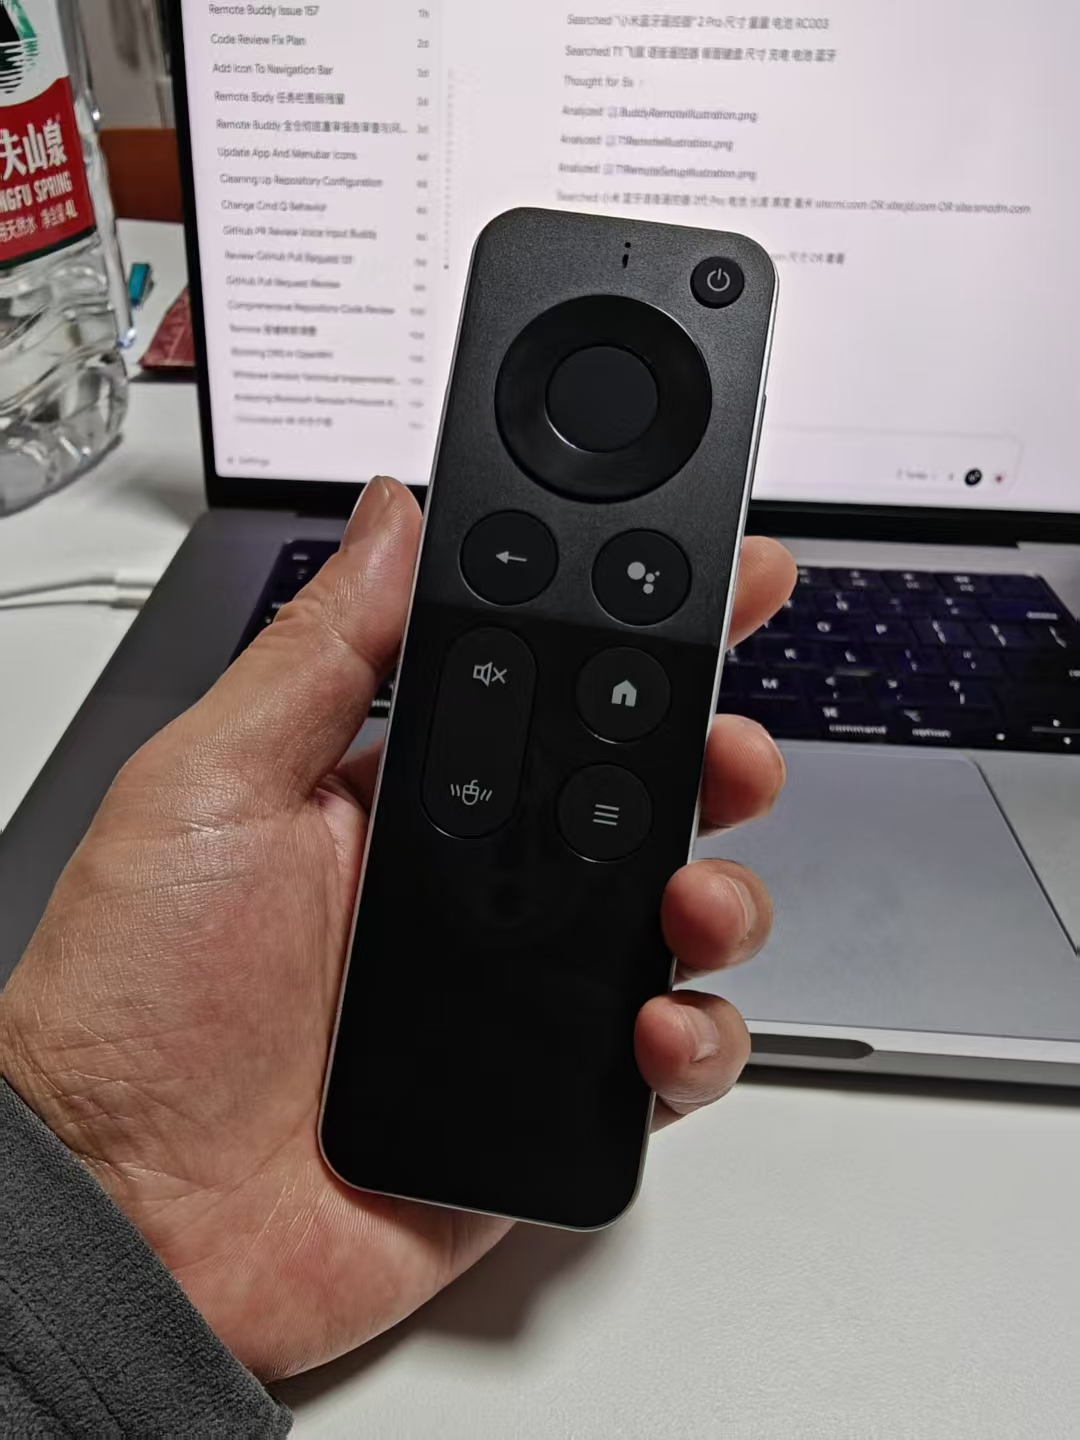
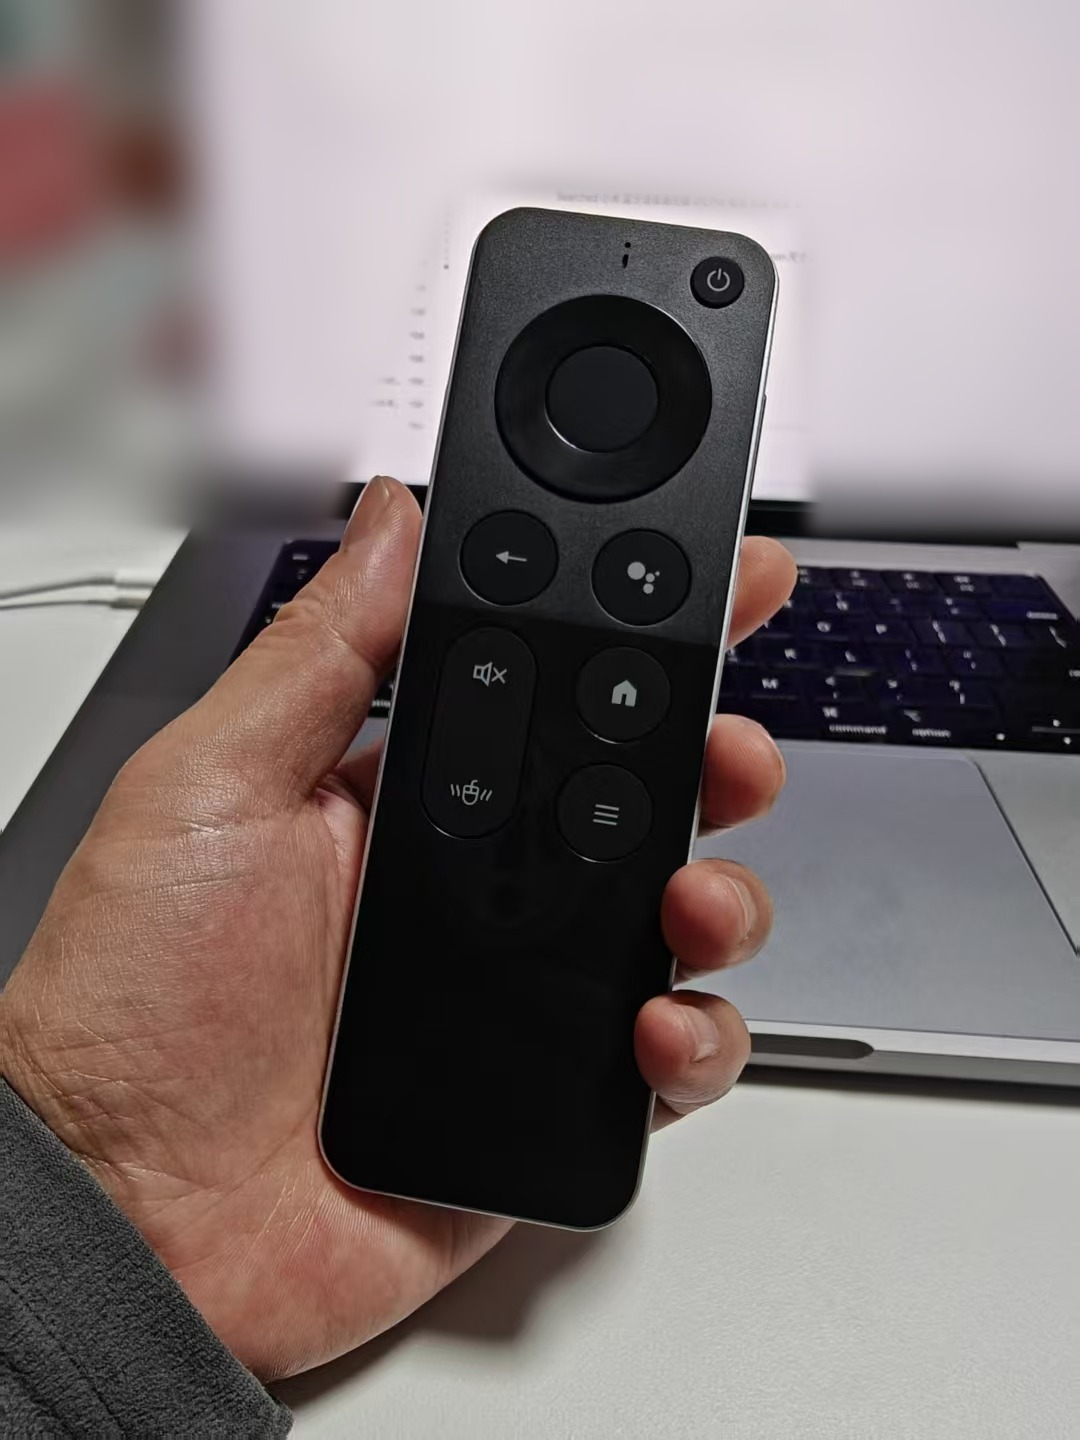
docs(t1-remote): update five-device docs, blur photo background, and verify illustrations

diff --git a/pages/index.en.html b/pages/index.en.html
@@ -85,7 +85,7 @@
   <div class="demo-links"><span>An overview of Remote Buddy’s features and setup.</span><a class="text-link" href="assets/video/Remote_Buddy_Demo_Natural_zh-CN.mp4" download>Download video ↓</a></div>
 </section>
 <section class="section wrap start" id="start"><div><p class="eyebrow">GET STARTED</p><h2 class="section-title">Install, then follow the setup guide.</h2><p>One installer includes the app and virtual microphone driver.</p><a class="text-link" href="https://github.com/zfdang/remote-buddy/blob/main/docs/interface.md">Setup and troubleshooting ↗</a></div><ol class="steps"><li><span>01</span><div><h3>Install and open</h3><p>Download the PKG from Releases and open Remote Buddy in Applications.</p></div></li><li><span>02</span><div><h3>Grant permissions</h3><p>Follow the guide for Bluetooth, Input Monitoring, and Accessibility permissions.</p></div></li><li><span>03</span><div><h3>Connect and configure</h3><p>Connect your remote, test its buttons, and check the driver. Then select Remote Buddy Mic in your input tool and follow the guide to set its voice shortcut.</p></div></li><li><span>04</span><div><h3>Try a sentence</h3><p>Pass the voice test in the guide, then click where you want to type. Hold the remote voice button to speak and release to finish. For tap-based tools, follow the guide to configure how voice input starts and stops.</p></div></li></ol></section>
-<section class="section compatibility" id="compatibility"><div class="wrap"><p class="eyebrow">COMPATIBILITY</p><h2 class="section-title">Check device and input tool compatibility.</h2><div class="compat-grid"><article><h3>REMOTES</h3><div class="tools hardware"><span>Xiaomi Bluetooth Remote 2 / 2 Pro</span><span>Chromecast Voice Remote (G9N9N)</span><span>Google TV Streamer Voice Remote (GY3LE)</span><span>Apple Siri Remote</span></div><p>Xiaomi 2 / 2 Pro are supported. G9N9N supports voice input; single-button mapping is unsupported. GY3LE and Siri Remote support is planned.</p><a class="text-link" href="https://github.com/zfdang/remote-buddy/blob/main/README.en.md#which-devices-are-supported">See support by model ↗</a></article><article><h3>INPUT TOOLS</h3><div class="tools"><span>WeType</span><span>Doubao</span><span>NetEase Bageshuo</span><span>Typeless</span><span>VoiceCursor</span><span>macOS Dictation</span><span>Other tools</span></div><p>Choose your tool, follow the guide to configure Remote Buddy Mic and the voice shortcut, then try a spoken sentence.</p><p class="muted">Your tool needs microphone selection and a configurable voice shortcut. Settings vary by version; use the guide’s voice test to check your setup.</p></article></div></div></section>
+<section class="section compatibility" id="compatibility"><div class="wrap"><p class="eyebrow">COMPATIBILITY</p><h2 class="section-title">Check device and input tool compatibility.</h2><div class="compat-grid"><article><h3>REMOTES</h3><div class="tools hardware"><span>Xiaomi Bluetooth Remote 2 / 2 Pro</span><span>T1 Air-Mouse &amp; Keyboard Voice Remote</span><span>Chromecast Voice Remote (G9N9N)</span><span>Google TV Streamer Voice Remote (GY3LE)</span><span>Apple Siri Remote</span></div><p>Xiaomi 2 / 2 Pro and T1 are supported. G9N9N supports voice input; single-button mapping is unsupported. GY3LE and Siri Remote support is planned.</p><a class="text-link" href="https://github.com/zfdang/remote-buddy/blob/main/README.en.md#which-devices-are-supported">See support by model ↗</a></article><article><h3>INPUT TOOLS</h3><div class="tools"><span>WeType</span><span>Doubao</span><span>NetEase Bageshuo</span><span>Typeless</span><span>VoiceCursor</span><span>macOS Dictation</span><span>Other tools</span></div><p>Choose your tool, follow the guide to configure Remote Buddy Mic and the voice shortcut, then try a spoken sentence.</p><p class="muted">Your tool needs microphone selection and a configurable voice shortcut. Settings vary by version; use the guide’s voice test to check your setup.</p></article></div></div></section>
 <section class="section wrap troubleshooting" id="troubleshooting" aria-labelledby="troubleshooting-title">
   <p class="eyebrow">TROUBLESHOOTING</p>
   <h2 class="section-title" id="troubleshooting-title">Voice works, but buttons do not?</h2>

diff --git a/pages/index.html b/pages/index.html
@@ -85,7 +85,7 @@
   <div class="demo-links"><span>了解遥控搭子的功能与使用流程。</span><a class="text-link" href="assets/video/Remote_Buddy_Demo_Natural_zh-CN.mp4" download>下载视频 ↓</a></div>
 </section>
 <section class="section wrap start" id="start"><div><p class="eyebrow">开始使用</p><h2 class="section-title">安装后，跟着向导开始。</h2><p>应用和虚拟麦克风驱动包含在同一个安装包中。</p><a class="text-link" href="https://github.com/zfdang/remote-buddy/blob/main/docs/interface.md">查看设置与常见问题 ↗</a></div><ol class="steps"><li><span>01</span><div><h3>安装并打开</h3><p>下载安装包（PKG）并完成安装，再从“应用程序”打开 Remote Buddy。</p></div></li><li><span>02</span><div><h3>授予系统权限</h3><p>按向导授权蓝牙、输入监控和辅助功能。</p></div></li><li><span>03</span><div><h3>连接与配置</h3><p>连接遥控器、测试按键并检查驱动。随后在输入工具中选择 Remote Buddy Mic 麦克风，按向导设置语音快捷键。</p></div></li><li><span>04</span><div><h3>试说一句话</h3><p>通过向导中的语音测试后，点击要输入文字的位置，按住遥控器语音键说话、松开结束。使用点按式工具时，按向导配置开始与结束方式。</p></div></li></ol></section>
-<section class="section compatibility" id="compatibility"><div class="wrap"><p class="eyebrow">兼容范围</p><h2 class="section-title">查看设备与输入工具的适配情况。</h2><div class="compat-grid"><article><h3>遥控器</h3><div class="tools hardware"><span>小米蓝牙遥控器 2 / 2 Pro</span><span>Chromecast Voice Remote（G9N9N）</span><span>Google TV Streamer Voice Remote（GY3LE）</span><span>Apple Siri Remote</span></div><p>小米 2 / 2 Pro 已适配；G9N9N 支持语音输入，不支持普通单键映射。GY3LE 与 Siri Remote 计划支持。</p><a class="text-link" href="https://github.com/zfdang/remote-buddy/blob/main/README.md#支持哪些设备">查看各型号支持情况 ↗</a></article><article><h3>输入工具</h3><div class="tools"><span>微信输入法</span><span>豆包输入法</span><span>网易叭哥说</span><span>Typeless</span><span>VoiceCursor</span><span>macOS 听写</span><span>其他工具</span></div><p>选择对应工具，按向导配置 Remote Buddy Mic 和语音快捷键，再实际试说一句。</p><p class="muted">输入工具需要支持选择麦克风和设置语音快捷键。具体设置随工具版本而异，请通过向导试说确认。</p></article></div></div></section>
+<section class="section compatibility" id="compatibility"><div class="wrap"><p class="eyebrow">兼容范围</p><h2 class="section-title">查看设备与输入工具的适配情况。</h2><div class="compat-grid"><article><h3>遥控器</h3><div class="tools hardware"><span>小米蓝牙遥控器 2 / 2 Pro</span><span>T1 飞鼠键盘语音遥控器</span><span>Chromecast Voice Remote（G9N9N）</span><span>Google TV Streamer Voice Remote（GY3LE）</span><span>Apple Siri Remote</span></div><p>小米 2 / 2 Pro 与 T1 已适配；G9N9N 支持语音输入，不支持普通单键映射。GY3LE 与 Siri Remote 计划支持。</p><a class="text-link" href="https://github.com/zfdang/remote-buddy/blob/main/README.md#支持哪些设备">查看各型号支持情况 ↗</a></article><article><h3>输入工具</h3><div class="tools"><span>微信输入法</span><span>豆包输入法</span><span>网易叭哥说</span><span>Typeless</span><span>VoiceCursor</span><span>macOS 听写</span><span>其他工具</span></div><p>选择对应工具，按向导配置 Remote Buddy Mic 和语音快捷键，再实际试说一句。</p><p class="muted">输入工具需要支持选择麦克风和设置语音快捷键。具体设置随工具版本而异，请通过向导试说确认。</p></article></div></div></section>
 <section class="section wrap troubleshooting" id="troubleshooting" aria-labelledby="troubleshooting-title">
   <p class="eyebrow">常见问题</p>
   <h2 class="section-title" id="troubleshooting-title">语音正常，按键却没反应？</h2>

diff --git a/scripts/verify-onboarding-resources.py b/scripts/verify-onboarding-resources.py
@@ -24,6 +24,7 @@ referenced_keys = set()
 referenced_keys.update(re.findall(r'titleKey:\s*"([\w\.-]+)"', source))
 referenced_keys.update(re.findall(r'detailKey:\s*"([\w\.-]+)"', source))
 referenced_keys.update(re.findall(r'localization\.text\("([\w\.-]+)"\)', source))
+referenced_keys.update(re.findall(r'snapshot\.text\(\s*"([\w\.-]+)"', source))
 referenced_keys.update(re.findall(r'LocalizedMessage\(\s*"([\w\.-]+)"', source))
 for strings in sorted(resources.glob('*.lproj/Localizable.strings')):
     keys = set(re.findall(r'^\s*"([^"\n]+)"\s*=', strings.read_text(), re.MULTILINE))
@@ -74,9 +75,11 @@ for name in sorted(names):
     if dark is not None or name not in {'doubao-input-microphone', 'weixin-input-microphone', 'voicecursor-setting-fn', 'voicecursor-setting-mic', 'macos-dictation-enable', 'macos-dictation-shortcut', 'macos-dictation-microphone'}:
         assert dark is not None, f'Missing dark screenshot: {name}'
         files.append(dark)
-# Product catalog resources are required even while adapters remain planned.
+# Product catalog and button-mapping resources are required even while adapters remain planned.
 catalog = (app_sources / 'Devices/RemoteSetupDevice.swift').read_text()
+device_catalog = (app_sources / 'Devices/XiaomiRemoteCatalog.swift').read_text()
 illustrations = set(re.findall(r'return "(\w+Illustration)"', catalog))
+illustrations.update(re.findall(r'"(\w+Illustration)"', device_catalog))
 assert illustrations, 'No product catalog illustrations found'
 files.extend(resources / f'{name}.png' for name in sorted(illustrations))
 for path in files:

diff --git a/devices/xiaomi-2pro-vs-t1-remote.md b/devices/xiaomi-2pro-vs-t1-remote.md
@@ -34,7 +34,7 @@
 | **供电与充电** | 内置 **300mAh** 锂电池，底部 **Type-C** 充电 | 内置 **400mAh** 锂电池，右侧边 **Type-C** 充电 |
 | **蓝牙语音协议** | ATVV v1.0 / 16 kHz IMA-ADPCM（`lowNibbleFirst`） | ATVV v1.0 / 16 kHz IMA-ADPCM（`highFirst`） |
 | **语音触发模式** | **按住说话，松手即停**（对讲机式） | **按一下松开持续说话，再按一下结束**（开关式） |
-| **单次持续时长** | **约 60 秒上限**，且需全程按住语音键，适合短句与中短段落 | 实测连续输出 **近 2 分钟（118.7 秒）仍不中断**（Host 每 10 秒 `MIC_EXTEND` 保活），不累手 |
+| **单次持续时长** | **约 60 秒上限**，且需全程按住语音键，适合短句与中短段落 | 不会在松手或 60 秒处断流（作者样机实测可连续口述近 2 分钟，Host 每 10 秒 `MIC_EXTEND` 保活、最长约 5 分钟保护上限） |
 | **输入工具兼容性** | 原生适配所有“按住 Fn”工具，也支持转为点按模式 | Remote Buddy 期间代为全程保持系统 Fn 按下或自动转双点按，兼容长按与点按两种工具 |
 | **正面按键自定义** | 全部正面常规按键可映射（方向/OK/返回/主页/菜单/音量/TV 等） | **返回/主页/菜单/音量+/音量-/静音/电源** 等 7 个独立按键可自定义映射，并抑制原生 Spotlight 误触发；**方向键与确认键保持原生直通**，确保不劫持背面全键盘的方向键与 Enter |
 | **空中飞鼠** | 无 | **内置 6 轴陀螺仪飞鼠**，原生直通 macOS 光标移动与左键点击 |
@@ -95,7 +95,7 @@
 - **短板**：受限于单次 **60 秒上限** 和物理长按需求，如果要一口气口述一两分钟的长文章、周报或大段文字，不仅大拇指一直按住容易累，还会碰到 60 秒时长限制。
 
 #### T1 遥控器：开关式“按一下开始，再按一下结束”
-- **硬件工作方式**：根据真机日志调试验证，T1 第一次按下并**松开**语音键后，硬件**不会停播**，而是持续发送语音流；Remote Buddy 每 10 秒发送 `ATVV MIC_EXTEND` 维持会话（实测已稳定连续输出 **近 2 分钟 / 118.7 秒不中断**）。只有当你说完后**再次按下语音键**，Remote Buddy 才会下发 `MIC_CLOSE` 结束录音并送出尾音。
+- **硬件工作方式**：在作者实机样本上，T1 第一次按下并**松开**语音键后，硬件**不会停播**，而是持续发送语音流；Remote Buddy 每 10 秒发送 `ATVV MIC_EXTEND` 维持会话（作者样机实测可稳定连续输出近 2 分钟，Host 侧设约 5 分钟保活上限与 5 秒关麦超时兜底；不同贴牌批次表现仍以实测为准）。只有当你说完后**再次按下语音键**，Remote Buddy 才会下发 `MIC_CLOSE` 结束录音并送出尾音。
 - **长按型与点按型输入工具通吃**：不用担心“某些输入法要求一直按住 Fn 才识别，T1 第一次松手不就断了吗？”——在 Remote Buddy 中，从你第一下按下 T1 语音键起，一直到你第二下按完且语音排空结束为止，**程序会在系统端替你全程虚拟按住 `Fn` 键**（如果选的是点按模式工具，则自动转为首尾两次点按 `Fn`）。因此无论目标软件只支持“长按 Fn”还是支持“点按切换”，都能做到**按一下就解放双手说长段话，讲完再按一下立刻上屏**。
 - **使用感受与注意**：非常省手指，适合大段连续口述；但心智上要习惯“结束时再按一下”的开关逻辑，如果是每句只有两三秒的零碎高频短对话，比小米多一次按键动作。
 

diff --git a/docs/t1-remote-hardware-debugging.md b/docs/t1-remote-hardware-debugging.md
@@ -34,7 +34,7 @@
 
 - **写入特性**：Capabilities / Control 写入使用 `.withoutResponse`。
 - **解码参数**：ATVV v1.0、16 kHz IMA-ADPCM、`highFirst`（`lowNibbleFirst = false`）。
-- **挂断保护（`MIC_CLOSE` + `MIC_EXTEND`）**：实测该遥控器在第一次按下语音键后会直接发送 ATVV `STREAM START`（`0x04`）开启持续收音，**第一次松开语音键会上报 `0xAA` 释放但不会发 `AUDIO_STOP` 控制包**（按一下开始、再按一下结束的开关模式）；再次按下语音键时会发送 `0x08` 与 Report 2（部分状态还带 `0xAA`）。因此 Host 不在第一次 `0xAA` 释放边沿提前关麦，而是在收到录音中的 `0x08` 时主动下发 `MIC_CLOSE` 结束录音，在持续收音超过单段窗口时定时下发 `MIC_EXTEND` 维持会话，并将 T1 的停播后尾音屏蔽窗口放宽至 `0.8s` 防止幽灵重启。期间 Host 侧会全程维持虚拟语音键按下直到 `STREAM STOP（0x00）`，从而兼容只支持长按触发的输入工具。
+- **挂断保护（`MIC_CLOSE` + `MIC_EXTEND`）**：实测作者手头的 T1 样机在第一次按下语音键后会直接发送 ATVV `STREAM START`（`0x04`）开启持续收音，**第一次松开语音键会上报 `0xAA` 释放但不会发 `AUDIO_STOP` 控制包**（按一下开始、再按一下结束的开关模式）；再次按下语音键时会发送 `0x08` 与 Report 2（部分状态还带 `0xAA`）。因此 Host 不在第一次 `0xAA` 释放边沿提前关麦，而是在收到录音中的 `0x08` 时主动下发 `MIC_CLOSE` 结束录音（同时立即取消后续保活并启动 5 秒超时兜底，防止设备未回 `0x00` 导致长驻收音），在持续收音时每 10 秒下发 `MIC_EXTEND`（最多 30 次、约 5 分钟上限后自动关麦），并将 T1 的停播后尾音屏蔽窗口放宽至 `0.8s` 防止幽灵重启。期间 Host 侧会全程维持虚拟语音键按下直到 `STREAM STOP（0x00）` 或超时结束，从而兼容只支持长按触发的输入工具。
 
 ## 已验证范围与限制
 

diff --git a/README.en.md b/README.en.md
@@ -53,7 +53,7 @@ Driver installation requires administrator authorization and briefly interrupts 
 | Device | Status |
 | --- | --- |
 | Xiaomi Bluetooth Remote 2 / 2 Pro | RC001 = 2; RC003 = 2 Pro. Both have ATVV and button adapters. 2 Pro buttons tested locally and audio confirmed by the user (~60s single hold limit); complete Remote 2 audio acceptance is pending |
-| T1 Air-Mouse & Keyboard Voice Remote (and compatible clones) | Verified over Bluetooth: front control button mapping, press-and-release to start / second-press to stop voice input (tested past ~2 minutes continuously), plus native air mouse and rear QWERTY keyboard passthrough. See [T1 hardware debugging notes](docs/t1-remote-hardware-debugging.md) (Chinese) |
+| T1 Air-Mouse & Keyboard Voice Remote (and compatible clones) | Verified on author's sample over Bluetooth: custom mapping for 7 non-colliding front buttons, press-and-release to start / second-press to stop voice input (with 10s keepalive and ~5 min cap), plus native OK/arrows, air mouse, and rear QWERTY keyboard passthrough; clones require individual setup verification. See [T1 hardware debugging notes](docs/t1-remote-hardware-debugging.md) (Chinese) |
 | Google Chromecast Voice Remote (G9N9N) | **Partial support: voice input works normally; single-button mapping is unsupported.** Single-key reports are dropped by macOS due to non-compliant lengths; OK + direction sends Enter. See the [standalone test report](docs/g9n9n-compatibility.md) (Chinese) |
 | Google TV Streamer Voice Remote (GY3LE) | Planned; adapter implementation and hardware validation pending |
 | Apple Siri Remote | Planned; adapter implementation and hardware validation pending |

diff --git a/docs/website.md b/docs/website.md
@@ -22,8 +22,8 @@ python3 -m http.server 8765 --directory pages
 不依赖外部播放器或追踪服务。更新视频时同步更新封面、字幕和两种语言的介绍。
 
 视频的动画源文件与旁白位于 `scripts/demo-video/visuals.py` 和
-`scripts/demo-video/render.py`，更新时先对照当前程序界面。网页硬件区域列出四项设备，
-与输入工具列表并列展示。网页说明小米已适配、G9N9N 支持语音但不支持普通单键映射、GY3LE 与 Siri Remote 计划支持，并链接到 README 的各型号支持情况。实际连接准入与验收状态以 README 和应用向导为准。操作说明须匹配当前界面：音频固定输出 Remote Buddy Mic，用户只需在输入工具中选择同名麦克风。安装包未公证的提醒仅保留在网页文字说明中；视频不展示此提醒。
+`scripts/demo-video/render.py`，更新时先对照当前程序界面。网页硬件区域列出五项设备，
+与输入工具列表并列展示。网页说明小米与 T1 已适配、G9N9N 支持语音但不支持普通单键映射、GY3LE 与 Siri Remote 计划支持，并链接到 README 的各型号支持情况。实际连接准入与验收状态以 README 和应用向导为准。操作说明须匹配当前界面：音频固定输出 Remote Buddy Mic，用户只需在输入工具中选择同名麦克风。安装包未公证的提醒仅保留在网页文字说明中；视频不展示此提醒。
 
 在 macOS 上重做视频（需要 `ffmpeg`、`ffprobe` 和系统中文字体）：
 

diff --git a/docs/interface.md b/docs/interface.md
@@ -29,7 +29,7 @@
 
 首次设置向导先检查权限，顶部逐项显示八个步骤：系统权限、准备设备、连接遥控器、按键测试、驱动检查、输入工具、语音测试和完成。权限检查不依赖预先选择设备；驱动检测在第 5 步自动完成，首屏只检查三项系统权限。首次使用默认跟随系统语言，第一步左下角可选择系统默认、中文或英文，选择持久保存。
 
-第 2 步用单选圆点表示当前设备选择，四项设备均可选择。小米和两款 Google 选项可进入连接页；Siri Remote 点击继续后留在此页，显示尚未支持的提示。GY3LE 的设置入口不代表已实现协议适配；G9N9N 仍需实际连接及按键验证，不代表已完成真机验收。
+第 2 步用单选圆点表示当前设备选择，五项设备均可选择。小米、T1 和两款 Google 选项可进入连接页；Siri Remote 点击继续后留在此页，显示尚未支持的提示。GY3LE 的设置入口不代表已实现协议适配；G9N9N 仍需实际连接及按键验证，不代表已完成真机验收。
 
 Google 遥控器配对：打开 Mac 的“系统设置 → 蓝牙”，同时按住遥控器返回（Back）和主页（Home）直到指示灯闪烁，再在蓝牙列表中选择并连接。连接后按普通按键检查输入；重新配对时可先忽略原设备，不需要等待电视上的配对提示。
 

diff --git a/docs/modules.md b/docs/modules.md
@@ -11,7 +11,7 @@
 | RemoteBuddyTests | 协议、生命周期与产品边界测试 |
 | Sparkle | 第三方 macOS 更新框架 |
 
-当前连接适配提供小米 RC001／RC003 和 Google G9N9N；G9N9N 当前仅部分支持语音功能，普通按键映射不支持，见 [独立测试报告](g9n9n-compatibility.md)。GY3LE 可进入连接向导，但没有型号专用协议适配；Siri Remote 可在设备目录中选择，不能继续连接。内部兼容类型不代表对应功能已启用；私有扩展包不参与构建。
+当前连接适配提供小米 RC001／RC003、T1 飞鼠键盘语音遥控器（`T1RemoteProtocol.swift`）和 Google G9N9N；T1 支持 7 颗不与背面全键盘冲突的正面控制键自定义映射、ATVV 语音输入及原生飞鼠与背面 QWERTY 直通；G9N9N 当前仅部分支持语音功能，普通按键映射不支持，见 [独立测试报告](g9n9n-compatibility.md)。GY3LE 可进入连接向导，但没有型号专用协议适配；Siri Remote 可在设备目录中选择，不能继续连接。内部兼容类型不代表对应功能已启用；私有扩展包不参与构建。
 
 ## 驱动
 

diff --git a/Resources/RemoteIllustrations/README.md b/Resources/RemoteIllustrations/README.md
@@ -1,6 +1,6 @@
 # Remote illustrations
 
-These three SVG files are original schematic drawings distributed under the
+These four SVG files are original schematic drawings distributed under the
 project's GPL-3.0-only license. Matching transparent PNGs in the parent directory
 are the app's thumbnails. They contain no copied manufacturer photographs,
 logos, or traced image paths. Buttons use generic symbols or short text labels.
@@ -27,6 +27,7 @@ To regenerate a thumbnail from its editable vector source, from the repo root:
 rsvg-convert Resources/RemoteIllustrations/ChromecastG9N9NIllustration.svg -o Resources/ChromecastG9N9NIllustration.png
 rsvg-convert Resources/RemoteIllustrations/GoogleStreamerGY3LEIllustration.svg -o Resources/GoogleStreamerGY3LEIllustration.png
 rsvg-convert Resources/RemoteIllustrations/SiriRemoteA2854Illustration.svg -o Resources/SiriRemoteA2854Illustration.png
+rsvg-convert Resources/RemoteIllustrations/T1RemoteIllustration.svg -o Resources/T1RemoteIllustration.png
 ```
 
 `rsvg-convert` is only an artwork regeneration tool; normal application builds
